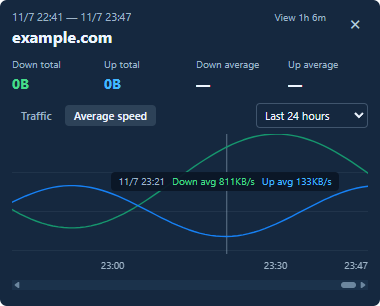
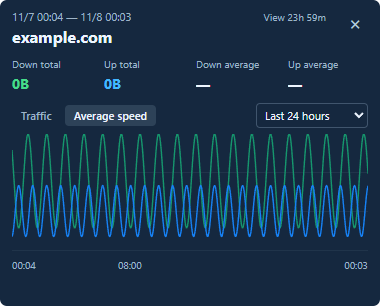
fix(history): default to the full selected range / 历史图表初始显示完整跨度
Fit both history charts to the entire selected range when no manual zoom is saved; retain independent zoom memory and original minute values. Update bilingual documentation, screenshots, and regressions (87 unit tests; 50 Electron checks).

无手动缩放偏好时，两种历史图表默认完整显示所选跨度；保留独立缩放记忆和原始分钟数据，更新中英文说明、截图与回归。此前受限的正式实例重启仍需用户处理。

diff --git a/index.html b/index.html
@@ -545,7 +545,7 @@
             const span = saved?.[tab];
             if (Number.isFinite(span) && span >= 60000 && span <= 30 * 86400000) spans[tab] = span;
           }
-        } catch { /* Invalid or unavailable storage keeps the initial density. */ }
+        } catch { /* Invalid or unavailable storage keeps the full-range initial view. */ }
         return spans;
       }
 
@@ -1644,18 +1644,14 @@
         return { buckets, bucketMs, start: bounds.start, end: bounds.last };
       }
 
-      function historyTimelineWidth(count, pixels, available) {
-        return Math.max(available, Math.max(1, count - 1) * pixels);
-      }
-
       function historyTimeLabel(at, withDate) {
         const date = new Date(at);
         const time = String(date.getHours()).padStart(2, '0') + ':' + String(date.getMinutes()).padStart(2, '0');
         return withDate ? (date.getMonth() + 1) + '/' + date.getDate() + ' ' + time : time;
       }
 
-      function historySpanWidth(duration, span, minimum, available, fallback) {
-        if (!Number.isFinite(span) || span <= 0) return Math.max(available, fallback);
+      function historySpanWidth(duration, span, minimum, available) {
+        if (!Number.isFinite(span) || span <= 0) return available;
         const bounded = Math.min(duration, Math.max(minimum, span));
         return Math.max(available, Math.round(duration * available / bounded));
       }
@@ -1698,11 +1694,11 @@
         }
       }
 
-      function drawHistoryAxis(timeline, start, end, fallback, minimum) {
+      function drawHistoryAxis(timeline, start, end, minimum) {
         timeline.dataset.start = String(start);
         timeline.dataset.end = String(end);
         timeline.dataset.minimumSpan = String(minimum);
-        const width = historySpanWidth(end - start, historyVisibleSpans[historyTab], minimum, historyScroll.clientWidth, fallback);
+        const width = historySpanWidth(end - start, historyVisibleSpans[historyTab], minimum, historyScroll.clientWidth);
         sizeHistoryTimeline(timeline, width);
         const axis = document.createElement('div');
         axis.className = 'history-axis';
@@ -1770,7 +1766,7 @@
         const minimum = Number(timeline.dataset.minimumSpan);
         const delta = event.deltaY * (event.deltaMode === 1 ? 16 : event.deltaMode === 2 ? available : 1);
         const span = historyZoomSpan(duration * available / oldWidth, delta, minimum, duration);
-        const newWidth = historySpanWidth(duration, span, minimum, available, oldWidth);
+        const newWidth = historySpanWidth(duration, span, minimum, available);
         const anchor = event.clientX - historyScroll.getBoundingClientRect().left;
         const left = historyZoomPosition(oldWidth, newWidth, available, historyScroll.scrollLeft, anchor);
         historyVisibleSpans[historyTab] = span;
@@ -1789,10 +1785,8 @@
           return;
         }
         const peak = Math.max(1, ...data.buckets.map(item => Math.max(item.down, item.up)));
-        const width = Math.max(historyScroll.clientWidth, data.buckets.length * 32);
         const timeline = document.createElement('div');
         timeline.className = 'history-timeline';
-        timeline.style.width = width + 'px';
         const plot = document.createElement('div');
         plot.className = 'history-traffic-plot';
         plot.style.gridTemplateColumns = 'repeat(' + data.buckets.length + ', minmax(0, 1fr))';
@@ -1813,7 +1807,7 @@
           plot.append(group);
         });
         timeline.append(plot);
-        drawHistoryAxis(timeline, data.start, data.end, width, data.bucketMs);
+        drawHistoryAxis(timeline, data.start, data.end, data.bucketMs);
         historyChart.append(timeline);
       }
 
@@ -1920,12 +1914,10 @@
         parts.push('<path class="history-speed-line down" d="' + path('down') + '"></path>');
         parts.push('<path class="history-speed-line up" d="' + path('up') + '"></path>');
         parts.push('</svg>');
-        const width = historyTimelineWidth(series.length, 4, historyScroll.clientWidth);
         const timeline = document.createElement('div');
         timeline.className = 'history-timeline';
-        timeline.style.width = width + 'px';
         timeline.innerHTML = parts.join('');
-        drawHistoryAxis(timeline, series[0].at, series.at(-1).at, width, 5 * 60000);
+        drawHistoryAxis(timeline, series[0].at, series.at(-1).at, 5 * 60000);
         historySpeedChart.append(timeline);
         bindHistorySpeedHover(series);
         if (hasLegacy) {

diff --git a/AGENT_MEMORY.md b/AGENT_MEMORY.md
@@ -25,8 +25,9 @@
 - 悬浮窗在屏幕上的位置保存在用户数据目录的 `widget-window.json`，窗口移动后落盘，重启后恢复并限制在可见屏幕范围内。启动时执行 `normalizeMeterLayout()`：先把整体平移到原点，若仍超过窗口可见范围则回退为两列紧凑默认布局，避免方格被拖到几千像素外后无法找回。
 - `main.mjs` 的 `ensureAppIcon()` 在创建窗口前更新用户数据目录中的 ICO。`shell-identity.mjs` 统一窗口重启属性与快捷方式 AppUserModelID（`local.netmeter.desktop`）、NetMeter 名称、ICO 和带项目目录参数的命令；两个窗口先 `show:false`，调用 `setAppDetails` 后再显示。启动时安装并修复旧 .lnk，通过 `shell.writeShortcutLink` 保存正确身份，不会自动固定；原 PowerShell 安装器只负责复制图标和基础 .lnk，AppUserModelID 的最终修复由主进程完成。
 - 历史流量只由方格头部域名触发，直接替换悬浮窗内容，保留 380×306 实色整窗；不使用内层弹窗或纵向滚动。2026-11-07 用户明确要求时间跨度和可滚动图表，已允许图表时间轴单独横向滚动，替代旧的“禁止滚动/全宽压缩”要求。
-- 历史面板的“历史流量”和“历史均速”共用最近 1/6/24 小时、7/30 天范围选择（默认 24 小时），独立 `netmeter-history-range` 键记忆范围；保留完整时间边界，标题上方显示当前可视日期/时分与可视时长，轴下有时间刻度。1/6 小时流量按 5 分钟画柱，较长范围按小时，初始每组连同间隔 32px；速度仍逐分钟，初始 4px/分钟，用户缩放可覆盖初始密度。普通滚轮、原生横向滚动条、触摸板及 Home/End 可导航；打开/换范围先到最新，标签切换保留各自位置。
+- 历史面板的“历史流量”和“历史均速”共用最近 1/6/24 小时、7/30 天范围选择（默认 24 小时），独立 `netmeter-history-range` 键记忆范围；保留完整时间边界，标题上方显示当前可视日期/时分与可视时长，轴下有时间刻度。1/6 小时流量按 5 分钟画柱，较长范围按小时，默认完整显示所选总范围（没有有效已保存缩放时），不再设定 32px 柱宽或 4px/分钟的初始密度；速度仍保留原始分钟样本，手动缩放和记忆保持不变。普通滚轮、原生横向滚动条、触摸板及 Home/End 可导航；打开/换范围先到最新，标签切换保留各自位置。
 - 2026-11-07 用户补充“可视跨度”独立于总范围：两个图表支持 Ctrl＋滚轮上放大、下缩小，以光标时间为锚点（边界才约束），普通滚轮仍横向滚动；顶部起止时间和双语可视时长实时跟随。`historyVisibleSpans` 按图表分别存入 `netmeter-history-visible-spans`，关闭重开、换域名、重启后保留；较短范围临时约束而不覆盖长范围偏好。最大缩到全范围，最小放到均速 5 分钟或流量 1 个桶。缩放只改现有时间轴宽度，不重采样、不改原始字节/活跃秒/均速口径或纵轴；流量柱间隔随密度缩小，刻度只生成可视区附近少量节点。分钟指示线与曲线路径统一 5 位小数，30 天极限放大仍对齐。
+- 2026-11-08 用户确认“默认初始显示对应全跨度”：`historySpanWidth` 在没有有效缩放偏好时直接返回可视宽度，两种图表、全部 1/6/24 小时及 7/30 天范围统一适配完整时间边界（含空白），删除旧 `historyTimelineWidth` 和固定密度 fallback；只改变初始 X 轴尺度，已有手动缩放仍按图表独立恢复。
 - 历史标签采用“记住上次选择”，不新增设置页默认视图：首次使用是“历史流量”，切换时把 `traffic` 或 `speed` 存到独立的 `netmeter-history-tab` 本地键；关闭重开、换域名和应用重启后恢复。存储不可用时当前渲染会话仍保留选择；无效存储值回退“历史流量”。
 - 「历史均速」曲线口径与方格均速一致：从用户选择的范围按分钟计算，保留真实首尾与空闲区段，纵轴是当前统计窗口（2/5/10 分钟）内的字节 ÷ 该方向有流量秒数，下载上传各自独立。IndexedDB 分钟样本的 `downSeconds`/`upSeconds` 保存各方向活跃秒。2026-11-06 纠错：旧记录有字节而缺少活跃秒时，原读取和同分钟更新都擅自按 60 秒兜底，短时高速流量会被显著压低；现 `historyActiveSeconds` 返回 `null` 表示未知，`historySpeedSeries` 按方向阻断受污染窗口的曲线，写入侧合并新样本时继续保留该方向的未知状态。全缺秒时双语说明，部分缺秒时图表标注；历史流量柱状图保留字节。先前已被旧代码补写成 60 秒的记录无法与真正持续 60 秒的样本可靠区分，不能自动恢复真实均速。
 - 2026-11-07 新要求取代早期“有效数据直接满宽”：已移除 `historySpeedViewport` 首尾裁剪，`historySpeedSeries` 新增可选范围参数，历史加载保留统计窗口预热分钟。`historySpeedX` 使用同一完整时间映射，归一化 X 坐标保留 5 位小数，避免 30 天长轴出现像素量化。SVG 路径仍 1.4px 不缩放描边，下载/上传共用纵轴，无活跃流量按方向断线；滚动后的悬停仍读该分钟窗口均速，不用峰值替代。提示与旧数据缺秒标注固定在可视窗口内，不随时间轴滚走。
@@ -43,8 +44,10 @@
 
 ## 验证
 
+- 2026-11-08 默认全跨度：`npm test` 87/87；真实 Electron 主进程探针 50/50，验证五档范围默认整段可见、中英两图初始全宽、缩放/滚动/悬停/记忆不回归；内联和 Electron 脚本语法通过。四张历史截图已更新为未保存缩放时的全跨度初始效果，使用隔离合成数据并逐张查看。本轮没有桌面控制会话；此前正式实例自动重启被环境策略拒绝，仍需用户从托盘退出后重开，未冒充已重启。
+
 - 2026-11-07 可视跨度缩放：`npm test` 86/86；实际 Electron 主进程历史探针 45/45（包括原生 Ctrl 滚轮、光标锚定、双图独立持久化、普通滚动、总范围与字节/曲线不变、30 天缩放上下界、720 根流量柱压缩、5 分钟极限的分钟指示线、双语截图），双语探针 27/27；内联、主进程、preload、服务与探针语法检查通过。四张中英文历史截图已用隔离合成数据更新并逐张查看，不是用户真实历史；本轮无可用 Playwright，视觉检查使用实际 Electron 捕获。
-- 本轮正式实例尚未重启：经实例租约尝试正常桌面退出，但 Windows Computer Use 返回 native pipe 不存在；进程重启命令在执行前被工具策略拒绝，未绕过限制，原实例保留。控制运行时已重置、实例租约已释放。必须明确告知用户仍需从托盘退出并重新打开，不能沿用上一轮“已重启”结论。
+- 2026-11-07 正式实例自动重启受阻：经实例租约尝试正常桌面退出，但 Windows Computer Use 返回 native pipe 不存在；进程重启命令在执行前被工具策略拒绝，未绕过限制，原实例保留。控制运行时已重置、实例租约已释放。必须明确告知用户仍需从托盘退出并重新打开，不能沿用上一轮“已重启”结论。
 
 - 2026-11-07 时间范围/任务栏身份修复：`npm test` 78/78；历史实际主进程探针 23/23，双语探针 27/27，Windows 原生属性探针 13/13；Electron、前端内联及探针语法检查通过。任务栏验收读取了两个实际 HWND 的重启名称/图标/命令和 AppUserModelID，并读取生成的 .lnk，均一致；未自动改写用户现有固定项，也未冒充已经目视验收 Windows 已固定磁贴。
 - 正式实例已重启，仍启用且配置已恢复；`Get-StartApps -Name NetMeter` 现报告 `local.netmeter.desktop`，不再是此前的 AutoGenerated ID，真实开始菜单快捷方式显式引用新 ICO。用户先前固定的通用 Electron 项是旧快照，须取消后重新固定 NetMeter；不得批量操作其他 Electron 程序。
@@ -73,7 +76,7 @@
 - `history-speed.test.mjs` 与 `history-timeline.test.mjs` 覆盖分钟均速、方向独立活跃秒、旧记录缺秒、范围边界与统计预热、5 分钟/小时流量桶字节守恒、未来/范围外过滤、时间轴宽度、独立范围记忆与过时异步加载丢弃。早期首尾裁剪/全宽压缩断言已按用户新要求替换。
 - `i18n.test.mjs`（12 项）直接从 `index.html` 取出 `I18N` 字典做纯函数测试：中英键集合完全一致、没有空文案、英文文案不含中文、占位符两边一致、`t()` 能替换占位符并在缺键时回退到中文、标记里的 `data-i18n*` 钩子和 JS 里的 `t('key')` 引用都指向存在的键、语言下拉框存在且语言不写进设置对象、`setLanguage` 会重绘方格与历史面板、悬浮方格通过 `storage` 事件跟随、主进程托盘菜单与窗口标题已本地化。
 - `scripts/i18n-probe.cjs` 用离屏 Electron 真实窗口验证双语渲染与切换；最近保存的探针日志为 27/27 通过，覆盖中英文方格文案、`<html lang>`、标题与 aria 文案、语言落盘、历史面板标题与标签、摘要四列、曲线 aria-label 与悬停提示、切回中文、另一个窗口（设置页）跟随切换、下拉框显示文案翻译但取值不变、标签文字与箭头间距 ≥3px、无渲染脚本错误。
-- `scripts/history-timeline-probe.cjs` 使用实际主进程、独立临时配置和合成分钟数据，45/45 验证真实 380×306 窗口、独立设置窗口、范围选择、横向滚动、悬停值与方向独立均速、切换/重载记忆、旧数据提示、暗/浅色和中英文截图；`scripts/history-curve-probe.cjs` 是兼容入口，日志同时写旧名。截图仅覆盖合成数据，不读取用户密钥或替换真实历史。
+- `scripts/history-timeline-probe.cjs` 使用实际主进程、独立临时配置和合成分钟数据，50/50 验证真实 380×306 窗口、独立设置窗口、范围选择、横向滚动、悬停值与方向独立均速、切换/重载记忆、旧数据提示、暗/浅色和中英文截图；`scripts/history-curve-probe.cjs` 是兼容入口，日志同时写旧名。截图仅覆盖合成数据，不读取用户密钥或替换真实历史。
 - `node --check` 已通过 `main.mjs`、`preload.cjs`、`server.mjs`、`average.test.mjs`、`scripts/average-probe.cjs`，内嵌前端脚本语法已通过；自由拖动使用 Pointer Events、分轴对齐和指针捕获，窗口尺寸由像素外接边界驱动。Electron 实际启动时确认设置窗口与方格窗口同时存在且会互相避让。
 - 通过 CDP 派发指针事件并在实际 Electron 窗口中验证：普通左键拖动使悬浮窗整体位移且两格相对位置不变（实测窗口 +80/+60），`Ctrl` 拖动只移动被按下的那一格（实测 +120/+80，另一格不动）；拖出画布左/上边界时悬浮窗同步平移且方格仍跟随指针；域名点击仍打开历史、齿轮点击仍打开设置、均速/峰值仍可切换；历史窗口实测为 380×306。
 - Electron 45.2.1 已安装并启动过；使用独立临时用户数据写入合成测试密钥后，完成一次真实 Electron 重启，确认 `/api/status` 自动恢复为已配置，设置页显示安全保存提示，随后已清理临时测试数据。正式实例在 4174 监听。

diff --git a/README.md b/README.md
@@ -70,7 +70,7 @@ Windows 托盘使用绿色下载、蓝色上传双箭头图标；`assets/tray/ne
 
 **创建快捷方式不等于固定。** 托盘或方格右键菜单选择“固定到开始菜单…”后，应用会准备快捷方式并请求系统固定，只有确认系统已固定才显示成功。若 Windows 拒绝自动固定，会明确提示尚未固定：点击“打开快捷方式位置”，右键选中的 `NetMeter` → “固定到开始”或“固定到开始屏幕”（必要时先选“显示更多选项”）。取消不会打开资源管理器，启动不会自动固定。
 
-方格的统计行默认显示均速；点击“均速”可切换为“峰值”，每个方格独立切换。均速与峰值共用设置页选定的统计窗口（最近 2 / 5 / 10 分钟，默认 5 分钟）：均速是窗口内该方向的字节增量 ÷ 该方向有流量的秒数，下载与上传各自独立、空闲秒不计入分母；峰值取窗口内该方向有流量的最高单次采样速度，样本滑出窗口后自动回落，窗口内无流量时两者都显示“—”。点击方格顶部的域名可查看该域名的历史流量，历史视图直接在方格窗口内展开，使用与方格一致的整窗实色背景，不使用内层弹窗或整窗纵向滚动。两个历史标签共用“最近 1/6/24 小时、7/30 天”时间范围选择，默认 24 小时并记住最近选择。图表保留真实起止日期和空闲区段，横向滚动查看，不再把所有历史缩进一屏；支持滚动条、普通滚轮、触摸板及 Home/End，打开或换范围先显示最新部分。流量在 1/6 小时内按 5 分钟画柱，较长范围按小时；均速始终逐分钟绘制，初始为每分钟 4px。总范围与可视跨度分开：在图表上按住 Ctrl 滚轮向上放大、向下缩小，尽量保持光标下的时间不动；顶部实时显示当前可见起止时间与“可视”时长。两种图表分别记住缩放，关闭重开或重启仍保留；缩放不改变总范围、样本值或均速口径。纵轴和悬停读数仍是同一统计窗口内的均速，口径与方格一致。曲线上的悬停读数给出光标所在分钟的均速（该统计窗口内该方向的字节增量 ÷ 有流量的秒数），并带一条竖直指示线标出该分钟；历史曲线只用均速，不使用峰值代替。旧历史若有字节但缺少对应方向的活跃秒，该方向窗口均速无法还原，曲线留空并提示，流量柱状图仍保留原字节；不再擅自按 60 秒摊薄。此前已经被补写为 60 秒的少量旧记录无法与真实 60 秒数据可靠区分，不能自动恢复。
+方格的统计行默认显示均速；点击“均速”可切换为“峰值”，每个方格独立切换。均速与峰值共用设置页选定的统计窗口（最近 2 / 5 / 10 分钟，默认 5 分钟）：均速是窗口内该方向的字节增量 ÷ 该方向有流量的秒数，下载与上传各自独立、空闲秒不计入分母；峰值取窗口内该方向有流量的最高单次采样速度，样本滑出窗口后自动回落，窗口内无流量时两者都显示“—”。点击方格顶部的域名可查看该域名的历史流量，历史视图直接在方格窗口内展开，使用与方格一致的整窗实色背景，不使用内层弹窗或整窗纵向滚动。两个历史标签共用“最近 1/6/24 小时、7/30 天”时间范围选择，默认 24 小时并记住最近选择。图表保留真实起止日期和空闲区段；未保存缩放时，默认在窗口内完整显示所选总范围，放大后可用滚动条、普通滚轮、触摸板及 Home/End 查看。打开或换范围时遵从已保存的可视跨度，先显示最新部分。流量在 1/6 小时内按 5 分钟画柱，较长范围按小时；均速始终保留原始分钟分辨率，不设固定的初始像素密度。总范围与可视跨度分开：在图表上按住 Ctrl 滚轮向上放大、向下缩小，尽量保持光标下的时间不动；顶部实时显示当前可见起止时间与“可视”时长。两种图表分别记住缩放，关闭重开或重启仍保留；缩放不改变总范围、样本值或均速口径。纵轴和悬停读数仍是同一统计窗口内的均速，口径与方格一致。曲线上的悬停读数给出光标所在分钟的均速（该统计窗口内该方向的字节增量 ÷ 有流量的秒数），并带一条竖直指示线标出该分钟；历史曲线只用均速，不使用峰值代替。旧历史若有字节但缺少对应方向的活跃秒，该方向窗口均速无法还原，曲线留空并提示，流量柱状图仍保留原字节；不再擅自按 60 秒摊薄。此前已经被补写为 60 秒的少量旧记录无法与真实 60 秒数据可靠区分，不能自动恢复。
 
 历史面板会记住上次选中的标签：下次打开任意域名的历史或重启应用后会恢复该视图。首次使用默认“历史流量”，无需在设置页另选默认值。
 
@@ -137,7 +137,7 @@ The settings title bar, widget window, and tray share the same transfer-arrow IC
 
 **Creating a shortcut is not pinning it.** Choose “Pin to Start…” in the tray or tile context menu to prepare the shortcut and request native pinning. Success is reported only after Windows confirms it. If Windows rejects automatic pinning, the app explicitly says it is not pinned yet: choose “Open shortcut location”, right-click the selected `NetMeter` shortcut, then choose “Pin to Start” (use “Show more options” first if needed). Cancel does not open Explorer, and startup never automatically pins the app.
 
-The statistics row of a tile shows the average by default; click “Avg” to switch it to “Peak”. Each tile switches on its own. The average and the peak share the statistics window chosen in the settings (last 2 / 5 / 10 minutes, 5 minutes by default): the average is the byte delta in that window ÷ the seconds in that direction that carried traffic, computed separately for download and upload with idle seconds excluded from the denominator; the peak is the highest single-sample speed of that direction inside the same window, and it falls back as soon as its sample leaves the window. Both show “—” when the direction had no traffic in the window. Click the domain at the top of a tile to open that domain's traffic history; the history view expands inside the tile window itself, using the same solid window background as the tiles, with no inner dialog or vertical window scrolling. Both history tabs share a remembered range selector: last 1/6/24 hours or 7/30 days (24 hours by default). The dated timeline preserves the actual bounds and idle gaps and scrolls horizontally instead of squeezing all records into one screen. Use the scrollbar, mouse wheel, touchpad, or Home/End; opening history or changing the range starts at its newest portion. Traffic uses five-minute bars for the 1/6-hour ranges and hourly bars for longer ranges. Average speed stays at minute resolution (initially four pixels per minute), using the same statistics window and definition as the tiles. The total range and visible span are independent: Ctrl + wheel up zooms in and Ctrl + wheel down zooms out, keeping the time under the cursor anchored where possible. The header follows the visible start/end times and shows the visible duration. Each chart remembers its own zoom across reopening and restarts; zoom never changes the total range, sample values, or averaging definition. Hovering the curve reads out the average speed of the minute under the cursor (the byte delta in that statistics window ÷ the seconds that carried traffic) and marks the minute with a vertical guide line; the history curve only ever reports averages and never substitutes a peak. If older byte records lack active seconds for a direction, that direction’s window cannot have a truthful average: the curve has a gap and a bilingual notice, while the traffic bars retain their byte totals. We no longer spread such bytes over an invented 60 seconds. Some earlier records already written with a synthetic 60 seconds cannot reliably be distinguished from genuine 60-second records or reconstructed automatically.
+The statistics row of a tile shows the average by default; click “Avg” to switch it to “Peak”. Each tile switches on its own. The average and the peak share the statistics window chosen in the settings (last 2 / 5 / 10 minutes, 5 minutes by default): the average is the byte delta in that window ÷ the seconds in that direction that carried traffic, computed separately for download and upload with idle seconds excluded from the denominator; the peak is the highest single-sample speed of that direction inside the same window, and it falls back as soon as its sample leaves the window. Both show “—” when the direction had no traffic in the window. Click the domain at the top of a tile to open that domain's traffic history; the history view expands inside the tile window itself, using the same solid window background as the tiles, with no inner dialog or vertical window scrolling. Both history tabs share a remembered range selector: last 1/6/24 hours or 7/30 days (24 hours by default). The dated timeline preserves the actual bounds and idle gaps. Without a saved zoom, it initially displays the entire selected range; zoom in for finer detail and navigate with the scrollbar, mouse wheel, touchpad, or Home/End. Opening history or changing the range keeps the saved visible span and starts at its newest portion. Traffic uses five-minute bars for the 1/6-hour ranges and hourly bars for longer ranges. Average speed retains the original minute resolution at every zoom level, using the same statistics window and definition as the tiles. The total range and visible span are independent: Ctrl + wheel up zooms in and Ctrl + wheel down zooms out, keeping the time under the cursor anchored where possible. The header follows the visible start/end times and shows the visible duration. Each chart remembers its own zoom across reopening and restarts; zoom never changes the total range, sample values, or averaging definition. Hovering the curve reads out the average speed of the minute under the cursor (the byte delta in that statistics window ÷ the seconds that carried traffic) and marks the minute with a vertical guide line; the history curve only ever reports averages and never substitutes a peak. If older byte records lack active seconds for a direction, that direction’s window cannot have a truthful average: the curve has a gap and a bilingual notice, while the traffic bars retain their byte totals. We no longer spread such bytes over an invented 60 seconds. Some earlier records already written with a synthetic 60 seconds cannot reliably be distinguished from genuine 60-second records or reconstructed automatically.
 
 The history panel remembers the last selected tab. Reopening another domain or restarting the app restores that view. On first use it starts with “Traffic”; there is no separate default-view setting.
 

diff --git a/UI_DESIGN_SPEC.md b/UI_DESIGN_SPEC.md
@@ -128,12 +128,12 @@
 - 摘要下方是标签栏，只有“历史流量”和“历史均速”两项，11px 字，选中项用同一套语义底色高亮；标签栏紧贴图表，切换只更换图表，摘要与窗口尺寸不变。
 - 首次打开历史显示“历史流量”；用户切换标签后记住最近使用的视图，关闭重开、切换域名及重启应用后仍恢复该视图。偏好独立于控制器设置保存，不在设置页增加默认视图选项；存储不可用时当前窗口内仍记住选择。
 - 两个标签共用“最近 1/6/24 小时、7/30 天”时间范围下拉框，默认 24 小时，使用独立本地键记住选择；切换范围不改变均速统计窗口或历史保留设置，显示范围以选择为准，均速可预读范围前的统计窗口样本进行预热。
-- “历史流量”在 1/6 小时范围内按 5 分钟画柱，24 小时及更长范围按小时画柱；初始每组连同间隔 32px，不把所有柱强制挤入窗口；用户缩小时允许更密，柱间隔同步缩小且不产生额外溢出。允许细网格线，不增加独立容器边框。
-- “历史均速”按所选范围逐分钟重放，保留完整时间边界与首尾/内部空白，不再裁掉空白后把整段有效历史缩进一屏。初始每分钟 4px，用户可缩放时间密度，时间轴总宽不小于可视图表宽。纵轴是当前统计窗口（2/5/10 分钟）内的均速，下载与上传各自独立、口径与方格一致（字节 ÷ 有流量的秒数），两条曲线共用一个纵轴上限，下载用下载色、上传用上传色，曲线宽 1.4px、不填充、不加阴影，窗口内没有该方向流量的区段断开而不是画成 0。旧分钟记录有字节但缺少该方向活跃秒时，不得假定整分钟 60 秒或猜测高速值：含此记录的窗口该方向曲线断开、悬停显示“—”；全部不可计算时显示双语说明，部分区段不可计算时在图表内提示。历史流量柱状图仍保留原始字节。旧版已经写入过 60 秒的个别记录与真实 60 秒记录无法可靠区分，不自动篡改。
+- “历史流量”在 1/6 小时范围内按 5 分钟画柱，24 小时及更长范围按小时画柱；未保存缩放时默认完整显示所选总范围，不使用固定柱宽；用户放大后可横向滚动。柱间隔随密度变化，压缩时不产生额外溢出。允许细网格线，不增加独立容器边框。
+- “历史均速”按所选范围逐分钟重放，保留完整时间边界与首尾/内部空白，不再裁掉空白后把整段有效历史缩进一屏。未保存缩放时默认完整显示所选总范围（包括空白区段），不使用固定的每分钟像素密度；用户可缩放时间密度，分钟样本粒度保持不变，时间轴总宽不小于可视图表宽。纵轴是当前统计窗口（2/5/10 分钟）内的均速，下载与上传各自独立、口径与方格一致（字节 ÷ 有流量的秒数），两条曲线共用一个纵轴上限，下载用下载色、上传用上传色，曲线宽 1.4px、不填充、不加阴影，窗口内没有该方向流量的区段断开而不是画成 0。旧分钟记录有字节但缺少该方向活跃秒时，不得假定整分钟 60 秒或猜测高速值：含此记录的窗口该方向曲线断开、悬停显示“—”；全部不可计算时显示双语说明，部分区段不可计算时在图表内提示。历史流量柱状图仍保留原始字节。旧版已经写入过 60 秒的个别记录与真实 60 秒记录无法可靠区分，不自动篡改。
 - 曲线区沿用与柱状区相同的细网格线与尺寸；悬停提示读出光标所在分钟的下载与上传均速，即该分钟曲线点的值（同一统计窗口内的字节增量 ÷ 有流量的秒数），并用一条竖直指示线标出该分钟。历史曲线只报均速，不得用峰值代替，也不得按小时聚合成一个读数；提示不追加说明文字。
 - 图表下方有日期/时分刻度和横向滚动条；普通滚轮可横向翻看，触摸板横向滚动与键盘方向键可用，Home/End 到最早/最新位置。打开历史或换范围先显示最新部分，标签切换保留各自滚动位置；悬停位置与时间轴严格一致，提示浮层限制在窗口可视范围内。
 - 两个图表都支持 `Ctrl`＋滚轮调整可视跨度：向上放大（跨度变小）、向下缩小（跨度变大），优先固定光标下的时间，碰到范围边界才约束位置；取消浏览器页面缩放，包括缩放极限与空数据状态。最大可视跨度是所选总范围；均速最小 5 分钟，流量最小 1 个柱桶（5 分钟或 1 小时）。普通滚轮仍只横向滚动。
-- 两种图表使用独立 `netmeter-history-visible-spans` 偏好记住可视跨度，切换标签、关闭重开、换域名及应用重启后恢复；切换较短总范围时临时约束到范围边界，回到长范围恢复偏好。缩放只改 X 轴，不改变总范围、样本粒度、字节累计、均速或纵轴；只在悬停标题提供快捷键提示，不增加说明段落。
+- 2026-11-08 用户确认初始可视跨度应覆盖所选完整总范围；没有有效已保存缩放时始终按此初始化。两种图表使用独立 `netmeter-history-visible-spans` 偏好记住手动调整的可视跨度，切换标签、关闭重开、换域名及应用重启后恢复；切换较短总范围时临时约束到范围边界，回到长范围恢复偏好。缩放只改 X 轴，不改变总范围、样本粒度、字节累计、均速或纵轴；只在悬停标题提供快捷键提示，不增加说明段落。
 - 长时间轴仅生成可视区附近的刻度，避免极限放大时创建成千上万的刻度节点；曲线和分钟指示线 X 坐标统一保留 5 位小数，最大 30 天缩放下仍对齐。
 - 两个标签、范围选择和时间轴都必须有可见键盘焦点，左右方向键在标签之间切换。
 
